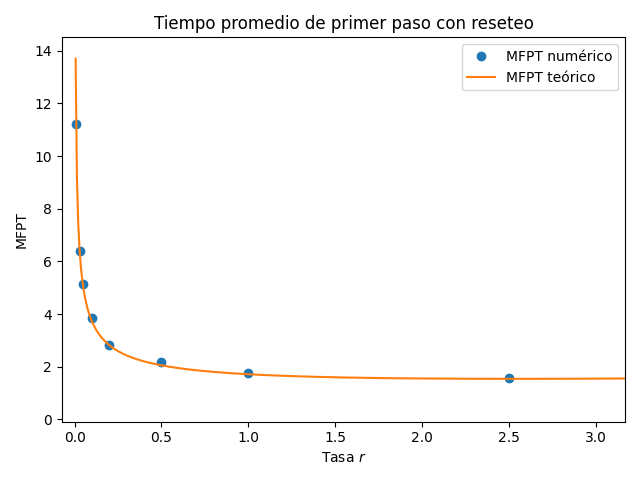
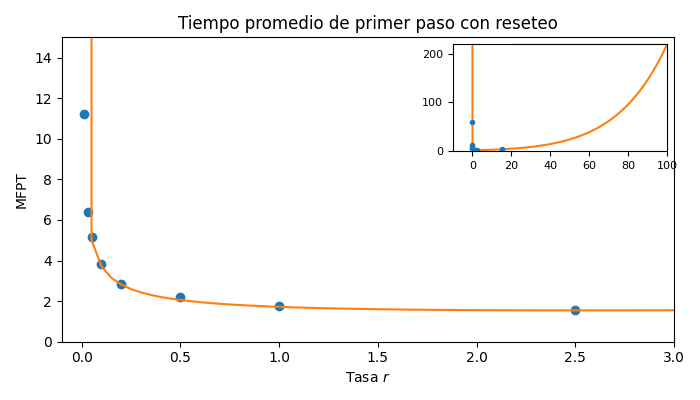
reseting

diff --git a/FEC/resetting_processs.py b/FEC/resetting_processs.py
@@ -135,7 +135,7 @@ if __name__ == "__main__":
 
     r_0, MFPT = np.load("mfpt_reset_r.npy")
     # r_0 = [0, 0.01,0.03, 0.05, 0.1, 0.2, 0.5,1.0, 2.5, 15.0]
-    # for r_i in [100.0]:
+    # for r_i in [20.0]:
     #     print(r_i)
     #     times = []
     #     for i in range(5000):
@@ -152,7 +152,7 @@ if __name__ == "__main__":
     #     r_0 = np.concatenate( (r_0, [r_i]) )
     # np.save("mfpt_reset_r.npy", np.array([r_0, MFPT]))
 
-    r0_theory = np.linspace(0.0, 15.0, 2000)
+    r0_theory = np.linspace(0.001, 100.0, 2000)
     alpha0 = np.sqrt(r0_theory / D)
     mfpt_theory = (np.exp(alpha0) - 1) / r0_theory
 
@@ -166,3 +166,45 @@ if __name__ == "__main__":
     plt.tight_layout()
     plt.show()
 
+    from mpl_toolkits.axes_grid1.inset_locator import inset_axes, mark_inset
+
+    r0_theory = np.linspace(0.000000001, 100.0, 2000) 
+    alpha0 = np.sqrt(r0_theory / D)
+    mfpt_theory = (np.exp(alpha0) - 1) / r0_theory
+
+    plt.figure(figsize=(7,4))
+    ax = plt.gca()
+
+    # --- Gráfica principal ---
+    ax.plot(r_0, MFPT, 'o', label="MFPT numérico")
+    ax.plot(r0_theory, mfpt_theory, '-', label="MFPT teórico")
+    ax.set_xlim(-0.1, 3.0)
+    ax.set_ylim(0,15.0)
+    ax.set_xlabel("Tasa $r$")
+    ax.set_ylabel("MFPT")
+    ax.set_title("Tiempo promedio de primer paso con reseteo")
+    ax.legend()
+
+    # --- INSET ---
+    ax_inset = inset_axes(ax, width="35%", height="35%", loc="upper right")
+
+    # mismos datos
+    ax_inset.plot(r0_theory, mfpt_theory, '-', color="C1")
+    ax_inset.plot(r_0, MFPT, '.', color="C0")
+
+    # límites para el zoom
+    ax_inset.set_xlim(-10.0, 100.0)
+
+    # ajusta automáticamente el eje y según los datos en ese rango
+    mask = (r0_theory >= 0) & (r0_theory <= 3.0)
+    ax_inset.set_ylim(0, 220.0)
+    # ax_inset.set_ylim(mfpt_theory[mask].min()-1, mfpt_theory[mask].max())
+
+    # ticks más simples
+    ax_inset.tick_params(axis='both', labelsize=8)
+
+    # rectángulo que marca la zona del zoom (opcional)
+    # mark_inset(ax, ax_inset, loc1=2, loc2=4, fc="none", ec="0.6")
+
+    plt.tight_layout()
+    plt.show()
